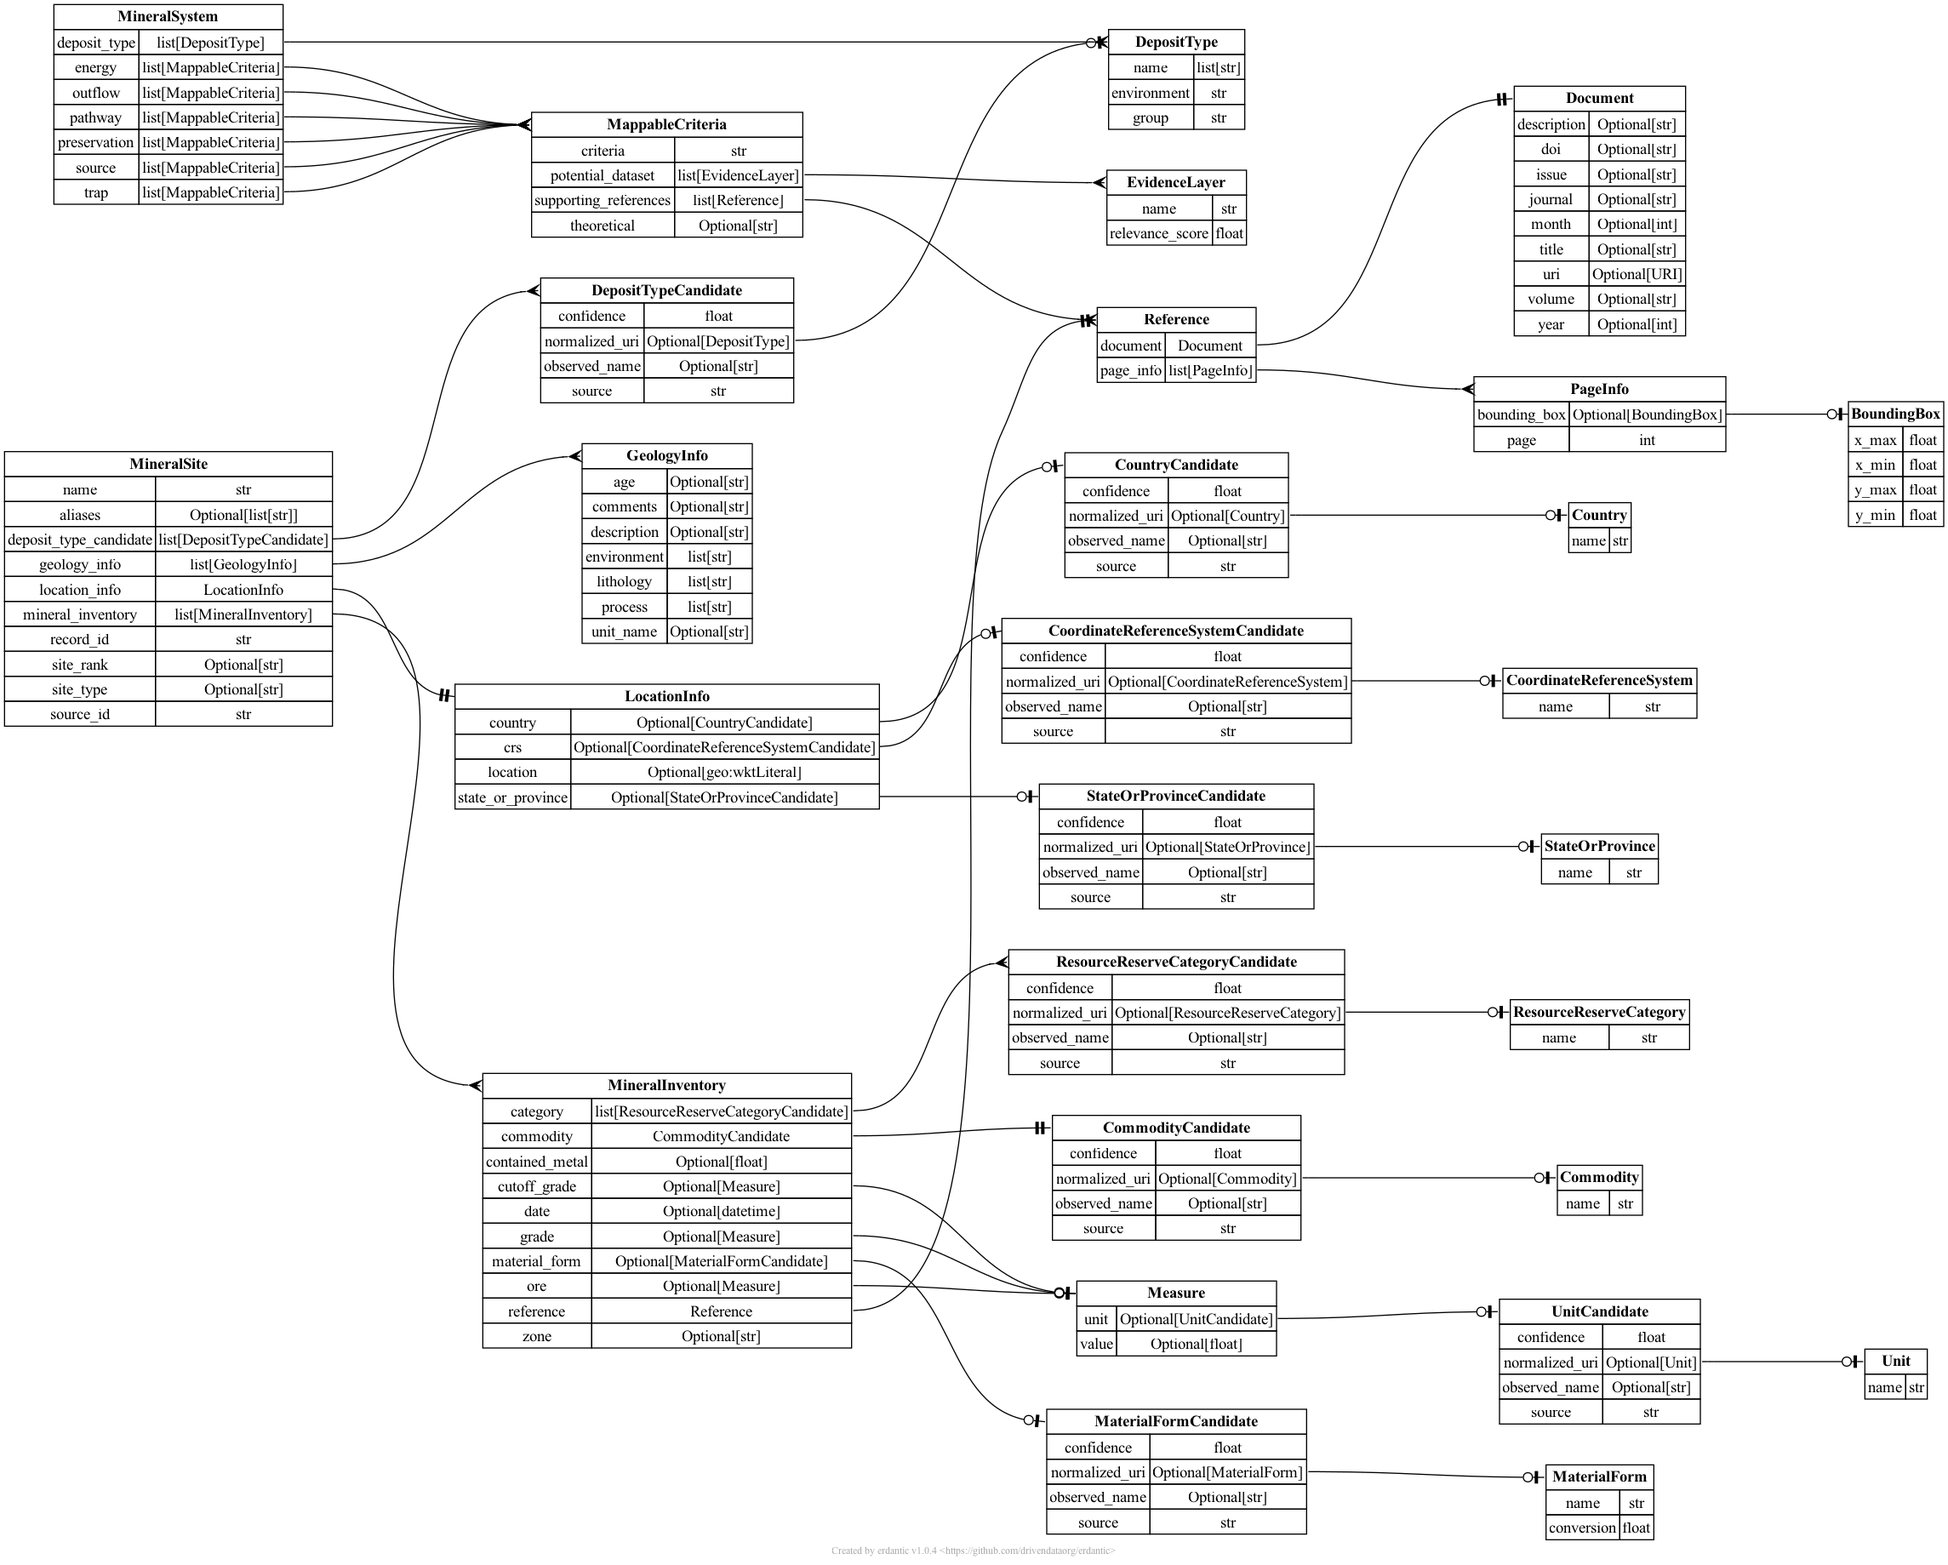
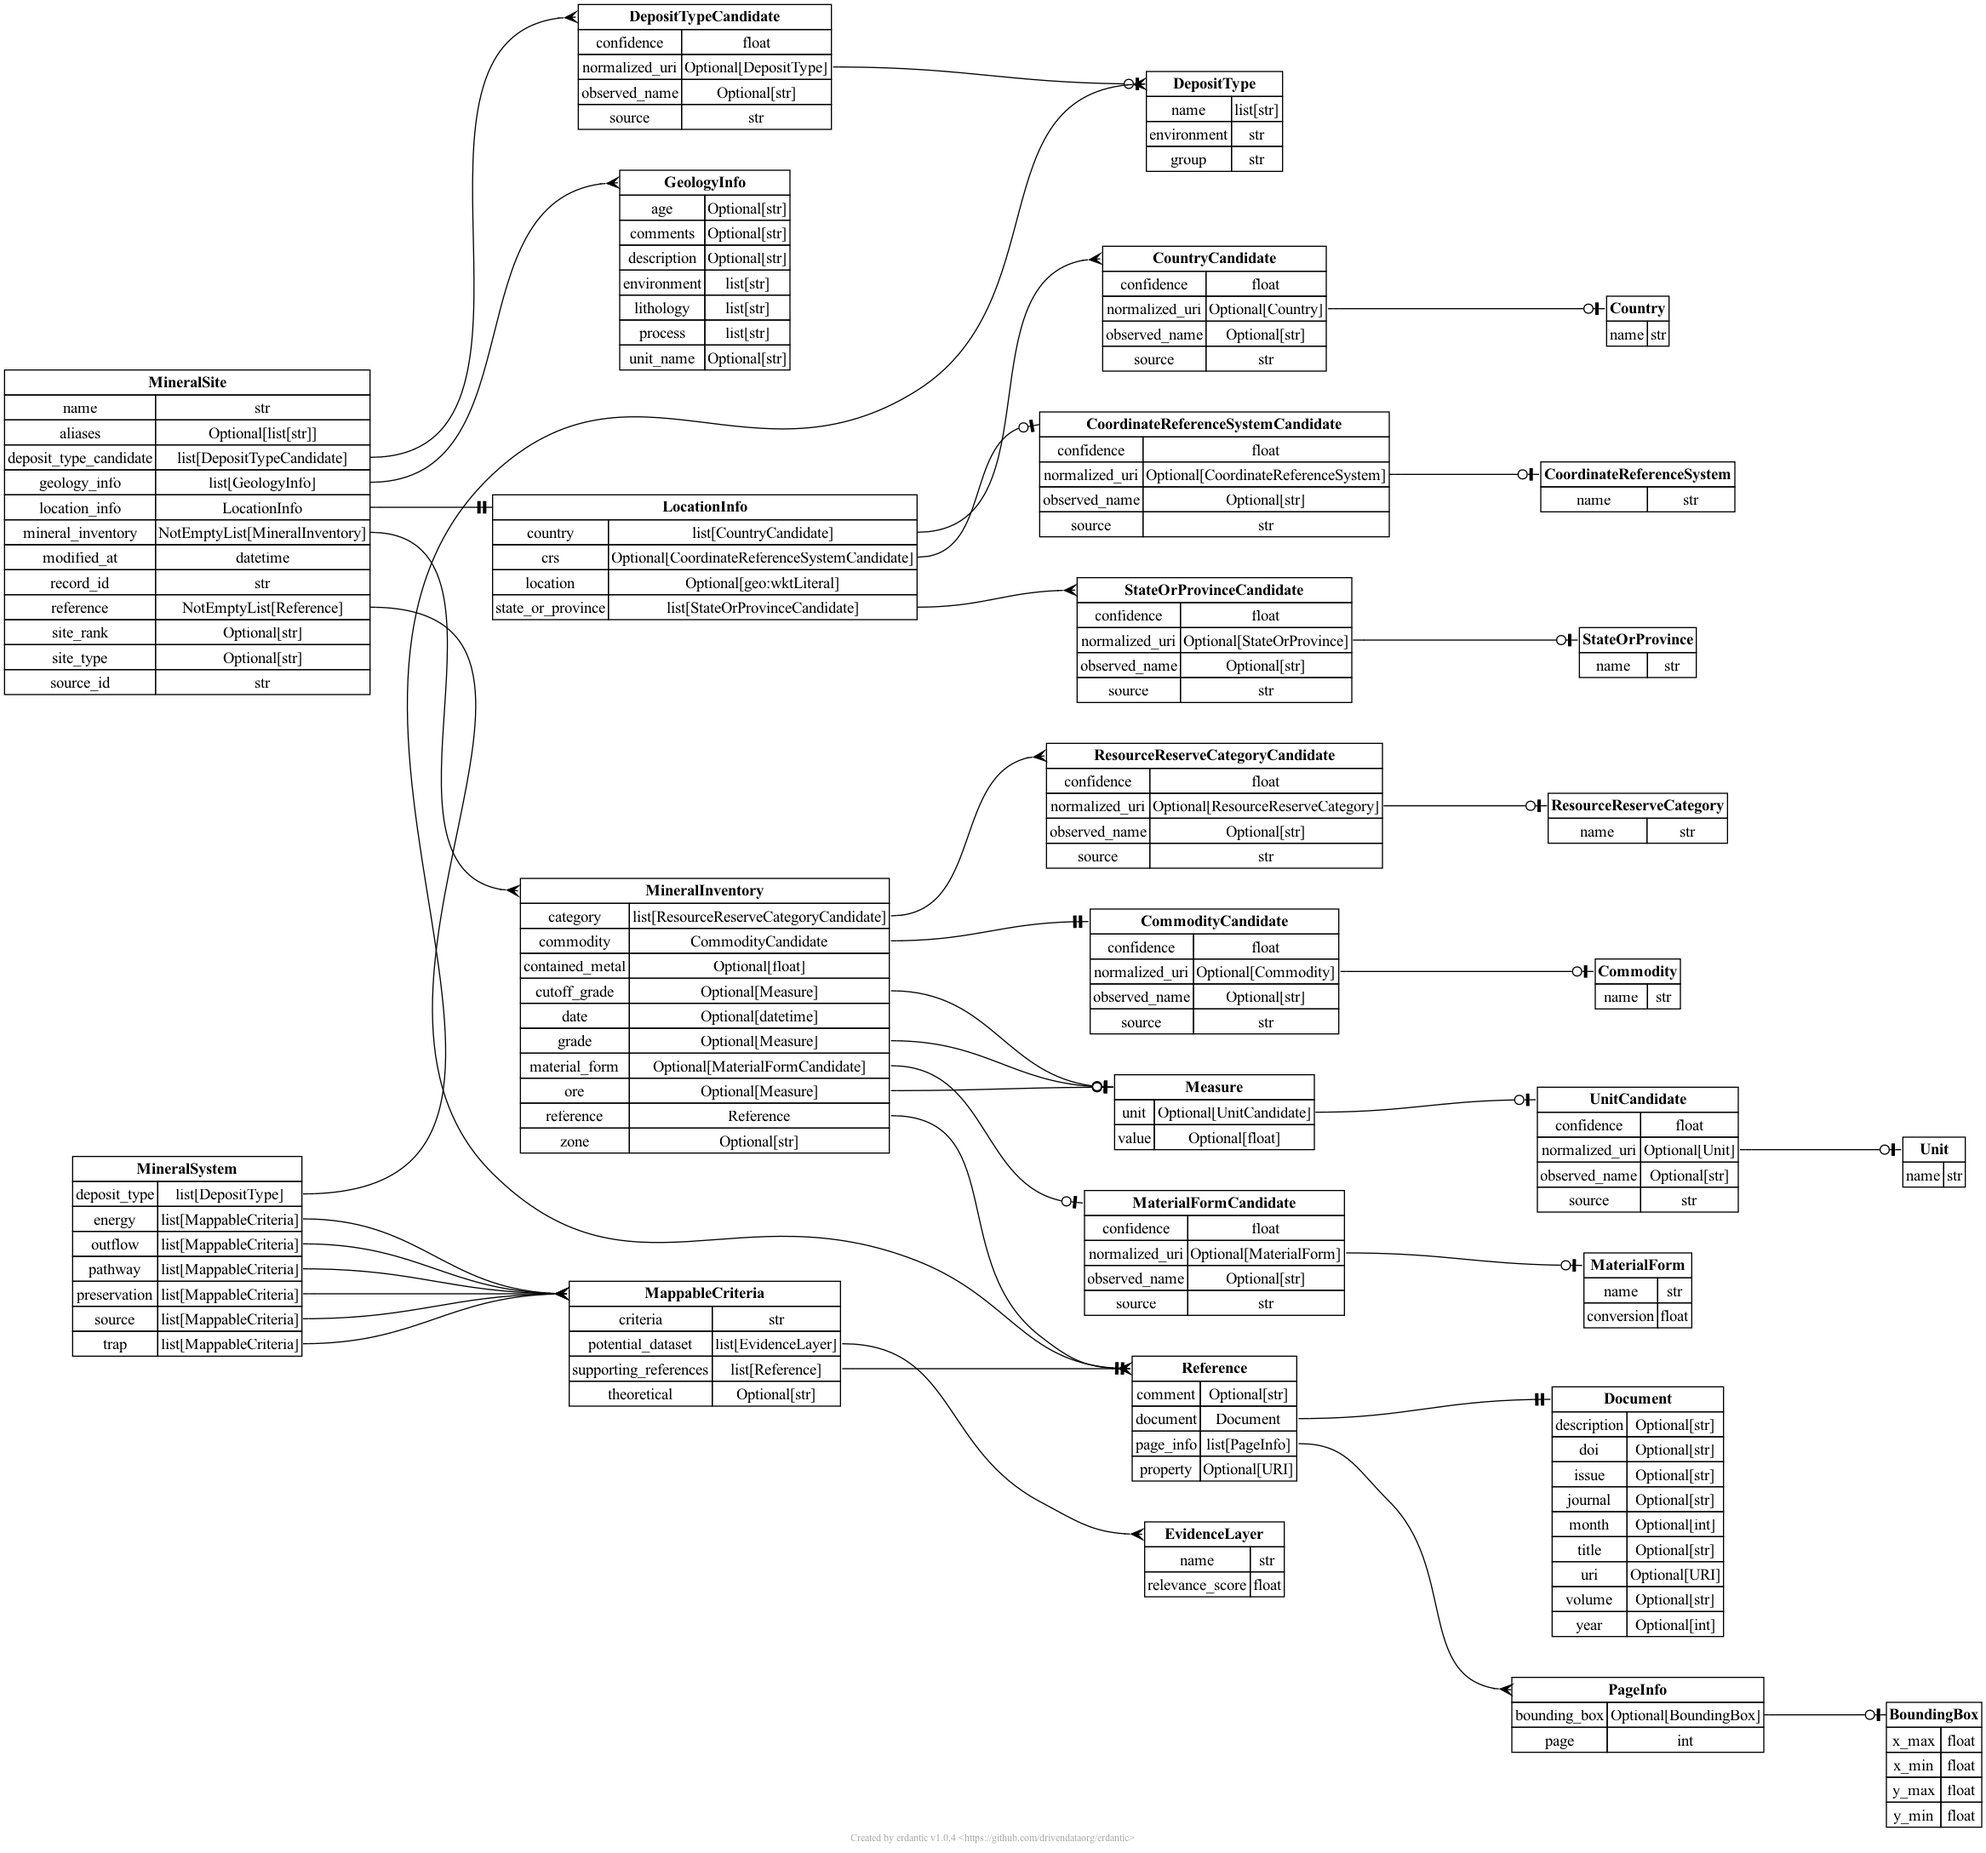
updating schema

diff --git a/minmodkg/schema/make_diagram.py b/minmodkg/schema/make_diagram.py
@@ -20,6 +20,9 @@ schema_dir = Path(__file__).parent.parent.parent / "schema"
 class URI(str): ...
 
 
+class NotEmptyList(list): ...
+
+
 def get_all_values(g: Graph, s: URIRef, p: URIRef, subItemOf: URIRef):
     output = list(g.objects(s, p, unique=True))
     for parent in g.objects(s, subItemOf):
@@ -171,6 +174,9 @@ def make_er_diagram(skip_empty_field: bool = True, skip_parent_class: bool = Tru
         if (subj, RDFS.subClassOf, mno.ThingMayHaveAltLabel) in g:
             fields.append(("aliases", Optional[list[str]]))
 
+        if (subj, RDFS.subClassOf, mno.ThingMayHaveComment) in g:
+            fields.append(("comment", Optional[str]))
+
         clsname = subj[len(mno) :]
         for prop in domain2props.get(subj, []):
             assert isinstance(prop, URIRef)
@@ -237,12 +243,12 @@ def get_field_type(
         elif obj in datatypes:
             norm_types.append(datatypes[obj])
         else:
-            raise NotImplementedError(obj)
+            raise NotImplementedError((types, obj))
 
     if len(norm_types) == 1:
         norm_type = norm_types[0]
     else:
-        assert len(norm_types) > 1
+        assert len(norm_types) > 1, (types, norm_types)
         norm_type = Union[tuple(norm_types)]  # type: ignore
 
     if restrictions is not None:
@@ -260,6 +266,11 @@ def get_field_type(
                     assert isinstance(cons_val, Literal)
                     assert cons_val.value == 1
                     norm_type = Optional[norm_type]  # type: ignore
+                    update = True
+                elif cons == OWL.minCardinality:
+                    assert isinstance(cons_val, Literal)
+                    assert cons_val.value == 1
+                    norm_type = NotEmptyList[norm_type]  # type: ignore
                     update = True
                 else:
                     raise NotImplementedError(cons)
